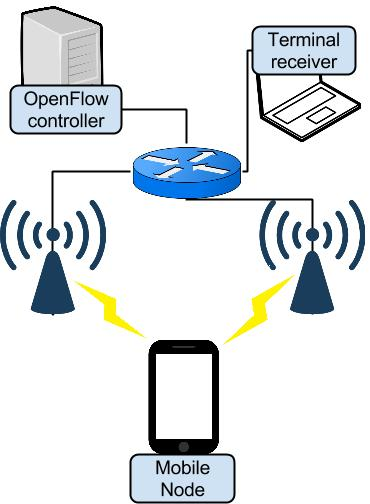
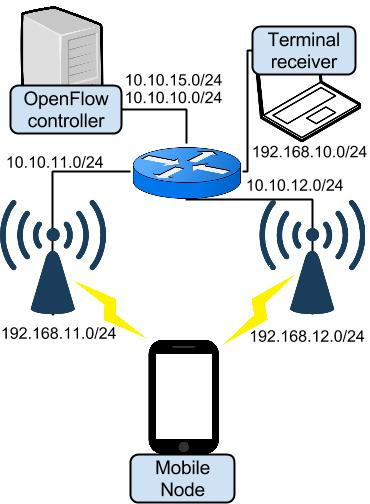
demo

diff --git a/started.html b/started.html
@@ -138,11 +138,48 @@ run it along with l3_learning
 <p>To install the VLC app on ubuntu you can use the following command:<pre><code>sudo apt-get install vlc-nox</code></pre></p>
 
 <h6>a) Network architecture</h6>
-<img src="images/network.jpg" width="30%">
+<div style="float:right; width:35%"><img src="images/network.jpg" width="90%" align="right"></div>
+<p>
+  The project was develop exploring a tree network topology with 6 nodes (2 access points, router, network controller, mobile node and a terminal). We also explore the fact of the mobile node beeing the source content, streaming a video through the network towards the terminal receiver. Keeping that in mind, the mobile node has a wireless connection with both AP's, whereas all the other nodes have a physical link connection. All nodes can ping each other.
+</p>
+
+
+
 <h6>b) Setting up the network</h6>
+<p>
+  how to set up
+</p>
+
 
 <h6>c) Start running</h6>
+<p>Here we show an example of a demo through a bash script.</p>
+  <pre><code>#!/bin/bash
+# DEMO: handover with openflow
+## start capture
+sudo tcpdump -ni ath1 -w file_ath1_dump.pcap &
+sudo tcpdump -ni ath0 -w file_ath0_dump.pcap &
+## implement basic rules in MobileNode's ovs-bridges 
+sudo ./rules.sh
+sleep 2
 
+## T=0
+# start video streaming
+cvlc -dvvv BigBuckBunny1080p.mp4 --sout '#duplicate{dst=rtp{{mux=ts,dst=192.168.10.1}}}'
+sleep 20
+## T=20
+# reduce the troughput - decrease the TxPower and bit rate
+sudo iwconfig ath0 txpower 1
+sudo iwconfig ath0 rate 5.5M
+sleep 10
+## T=30
+# send "handover" solicitation packet to the controller
+echo “help” > /dev/udp/11.11.11.11/58549
+sleep 30
+
+## T=60
+# kill the processes
+sudo pkill tcpdump
+pkill vlc</code></pre>
 
       </section>
       <footer>

diff --git a/framework.html b/framework.html
@@ -35,7 +35,7 @@
         
 
 <h2><a id="into" class="anchor" href="#into" aria-hidden="true"><span class="octicon octicon-link"></span>System Framework</h2></a>
-
+<p>The framework was design to work on 6 nodes (one for each emulated network node) of the AMazING tested, sited in the rooftop of Instituto de Telecomunicações de Aveiro. Each node is composed by a VIA Eden 1GHz processor with 1GB RAM and two wireless interfaces (an 802.11a/b/g/n Atheros 9K and a 802.11a/b/g Atheros 5K), running Ubuntu 12.04 LTS.</p>
       </section>
       <footer>
         <small>
